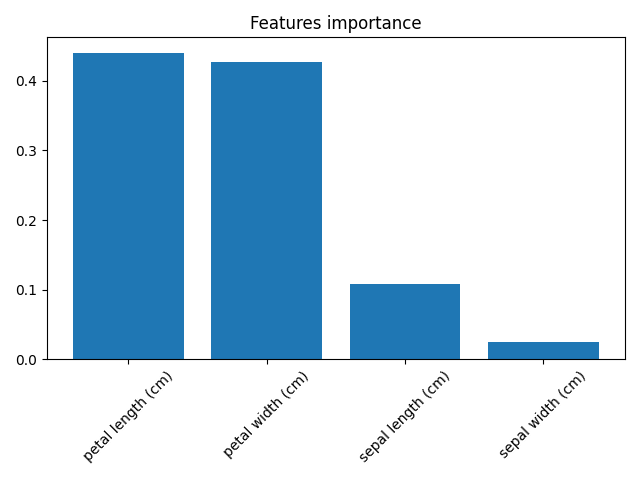
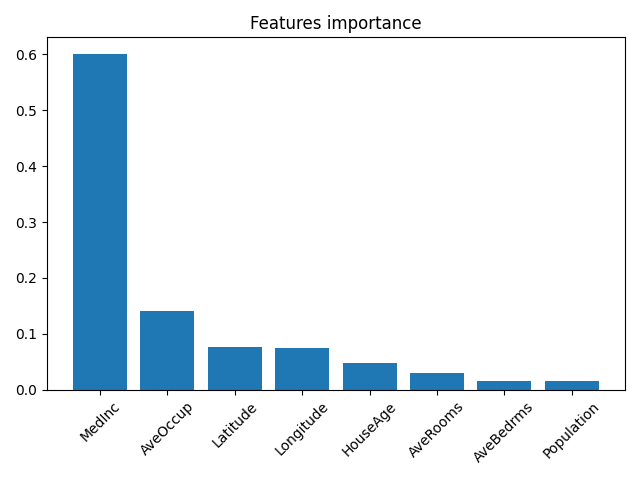
fix(practice_12): tasks 1 and 2 Classification -> Regression

diff --git a/practice_12/task_2.py b/practice_12/task_2.py
@@ -1,53 +1,96 @@
 from sklearn.feature_selection import SelectFromModel
-from sklearn.ensemble import RandomForestClassifier
-import matplotlib.pyplot as plt
+from sklearn.ensemble import RandomForestRegressor
+from sklearn.metrics import mean_squared_error, mean_absolute_percentage_error
+from sklearn.model_selection import train_test_split
 from sklearn import datasets
+import matplotlib.pyplot as plt
 import numpy as np
 import os
 
+
 RESULTS_DIR = "results"
 
-os.makedirs(RESULTS_DIR, exist_ok=True)
 
-iris = datasets.load_iris()
-features = iris.data
-target = iris.target
+def create_model():
+    return RandomForestRegressor(
+        random_state=42,
+        n_estimators=123,
+        max_depth=10,
+        min_samples_split=10,
+    )
 
-random_forest = RandomForestClassifier(
-    criterion="entropy", random_state=42, n_estimators=123
-)
-model = random_forest.fit(features, target)
 
-observation = [[5, 4, 3, 2], [1, 1, 2, 3]]
-print("Predictions (all features):")
-print(model.predict(observation))
+def evaluate_model(model, X_test, y_test, label=""):
+    predictions = model.predict(X_test)
 
-print("Prediction probabilities (all features):")
-print(model.predict_proba(observation))
+    mse = mean_squared_error(y_test, predictions)
+    rmse = np.sqrt(mse)
+    mape = mean_absolute_percentage_error(y_test, predictions) * 100
 
-importances = model.feature_importances_
+    print(f"\n{label}")
+    print(f"MSE: {mse:.4f}")
+    print(f"RMSE: {rmse:.4f}")
+    print(f"MAPE: {mape:.2f}%")
 
-indices = np.argsort(importances)[::-1]
 
-names = [iris.feature_names[i] for i in indices]
+def plot_feature_importance(model, feature_names, features):
+    importances = model.feature_importances_
+    indices = np.argsort(importances)[::-1]
+    names = [feature_names[i] for i in indices]
 
-plt.title("Features importance")
-plt.bar(range(features.shape[1]), importances[indices])
-plt.xticks(range(features.shape[1]), names, rotation=45)
-plt.tight_layout()
-plt.savefig(os.path.join(RESULTS_DIR, "task_2_feature_importance.png"))
-plt.show()
+    plt.title("Features importance")
+    plt.bar(range(features.shape[1]), importances[indices])
+    plt.xticks(range(features.shape[1]), names, rotation=45)
+    plt.tight_layout()
+    plt.savefig(os.path.join(RESULTS_DIR, "task_2_feature_importance.png"))
+    plt.show()
 
-selector = SelectFromModel(random_forest, threshold=0.3)
 
-features_important = selector.fit_transform(features, target)
+def select_features(X_train, y_train, X_test, feature_names):
+    selector = SelectFromModel(
+        create_model(),
+        threshold="mean"
+    )
 
-model = random_forest.fit(features_important, target)
+    X_train_selected = selector.fit_transform(X_train, y_train)
+    X_test_selected = selector.transform(X_test)
 
-observation = [[5, 4], [1, 1]]
-print()
-print("Predictions (selected features only):")
-print(model.predict(observation))
+    selected_mask = selector.get_support()
+    selected_feature_names = np.array(feature_names)[selected_mask]
 
-print("Prediction probabilities (selected features only):")
-print(model.predict_proba(observation))
+    print("\nSelected features:")
+    print(selected_feature_names)
+
+    return X_train_selected, X_test_selected
+
+
+def main():
+    os.makedirs(RESULTS_DIR, exist_ok=True)
+
+    data = datasets.fetch_california_housing()
+    features, target, feature_names = data.data, data.target, data.feature_names
+    X_train, X_test, y_train, y_test = train_test_split(features, target, test_size=0.2, random_state=42)
+
+    model = create_model()
+    model.fit(X_train, y_train)
+
+    print("Predictions (all features):")
+    print(model.predict(X_test[:2]))
+
+    evaluate_model(model, X_test, y_test, label="All features")
+
+    plot_feature_importance(model, feature_names, features)
+
+    X_train_sel, X_test_sel = select_features(X_train, y_train, X_test, feature_names)
+
+    model_selected = create_model()
+    model_selected.fit(X_train_sel, y_train)
+
+    print("\nPredictions (selected features only):")
+    print(model_selected.predict(X_test_sel[:2]))
+
+    evaluate_model(model_selected, X_test_sel, y_test, label="Selected features")
+
+
+if __name__ == "__main__":
+    main()

diff --git a/practice_12/task_1.py b/practice_12/task_1.py
@@ -1,34 +1,42 @@
-from sklearn.tree import DecisionTreeClassifier
+from sklearn.metrics import mean_squared_error, mean_absolute_percentage_error
+from sklearn.model_selection import train_test_split
+from sklearn.tree import DecisionTreeRegressor
 from IPython.display import Image
 from sklearn import datasets
 from sklearn import tree
+import numpy as np
 import pydotplus
 import os
 
 RESULTS_DIR = "results"
-
 os.makedirs(RESULTS_DIR, exist_ok=True)
 
-iris = datasets.load_iris()
-features = iris.data
-target = iris.target
+housing = datasets.fetch_california_housing()
+features = housing.data
+target = housing.target
 
-decisiontree = DecisionTreeClassifier(criterion="entropy", random_state=42)
-model = decisiontree.fit(features, target)
+X_train, X_test, y_train, y_test = train_test_split(features, target, test_size=0.2, random_state=42)
 
-observation = [[5, 4, 3, 2], [1, 1, 2, 3]]
+decisiontree = DecisionTreeRegressor(random_state=42, max_depth=5, min_samples_split=10)
+model = decisiontree.fit(X_train, y_train)
 
-print("Predictions:")
-print(model.predict(observation))
+predictions = model.predict(X_test)
 
-print("Prediction probabilities:")
-print(model.predict_proba(observation))
+mse = mean_squared_error(y_test, predictions)
+rmse = np.sqrt(mse)
+mape = mean_absolute_percentage_error(y_test, predictions) * 100
+
+print(f"MSE: {mse:.4f}")
+print(f"RMSE: {rmse:.4f}")
+print(f"MAPE: {mape:.2f}%")
 
 dot_data = tree.export_graphviz(
     decisiontree,
     out_file=None,
-    feature_names=iris.feature_names,
-    class_names=iris.target_names,
+    feature_names=housing.feature_names,
+    filled=True,
+    rounded=True,
+    max_depth=3
 )
 
 graph = pydotplus.graph_from_dot_data(dot_data)

diff --git a/practice_12/README.md b/practice_12/README.md
@@ -1,4 +1,4 @@
-# Task 1: Decision Tree Classification on Iris Dataset
+# Task 1: Decision Tree Regression on California Housing Dataset
 
 ## Decision Tree Visualization
 
@@ -8,15 +8,11 @@
 ## Results from Console Output
 
 ```
-Predictions:
-[1 0]
-
-Prediction probabilities:
-[[0. 1. 0.]
- [1. 0. 0.]]
+MSE: 0.5245146178314735
+MAPE: 32.6710%
 ```
 
-# Task 2: Random Forest Classification with Feature Importance
+# Task 2: Random Forest Regression with Feature Importance
 
 ## Feature Importance Analysis
 
@@ -27,18 +23,23 @@ Prediction probabilities:
 
 ```
 Predictions (all features):
-[1 0]
+[0.55925081 0.82179197]
 
-Prediction probabilities (all features):
-[[0.02439024 0.54471545 0.43089431]
- [0.49593496 0.21138211 0.29268293]]
+All features
+MSE: 0.2966
+RMSE: 0.5447
+MAPE: 21.57%
+
+Selected features:
+['MedInc' 'AveOccup']
 
 Predictions (selected features only):
-[2 1]
+[0.99317984 1.30686351]
 
-Prediction probabilities (selected features only):
-[[0.         0.01626016 0.98373984]
- [0.49593496 0.50406504 0.        ]]
+Selected features
+MSE: 0.5646
+RMSE: 0.7514
+MAPE: 34.69%
 ```
 
 # Task 3: Decision Tree with Different Max Depth Values